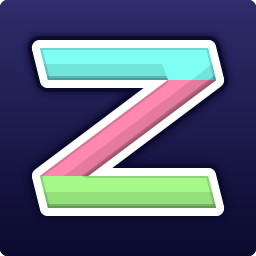
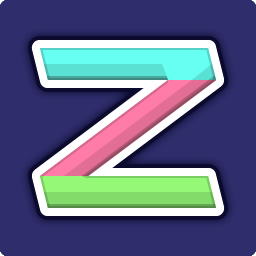
Version 1.1.0
- Added activityBar.activeBorder color.
- Added activityBar.inactiveForeground color.
- Added minimap.findMatchHighlight color.
- Updated icon.

diff --git a/CHANGELOG.md b/CHANGELOG.md
@@ -1,5 +1,14 @@
 # **Zeonica** Changelog
 
+## **1.1.0** February 23rd, 2020
+
+- Added activityBar.activeBorder color.
+- Added activityBar.inactiveForeground color.
+- Added minimap.findMatchHighlight color.
+- Updated icon.
+
+---
+
 ## **1.0.0** December 9th, 2018
 
 - Improved hover colors used in Menu, Menubar, and Notifications.

diff --git a/README.md b/README.md
@@ -1,4 +1,4 @@
-# Zeonica 1.0.0
+# Zeonica 1.1.0
 
 Zeonica is a colorful and (hopefully) aesthetically-pleasing original dark theme designed by Andrew Vallette for Visual Studio Code.
 
